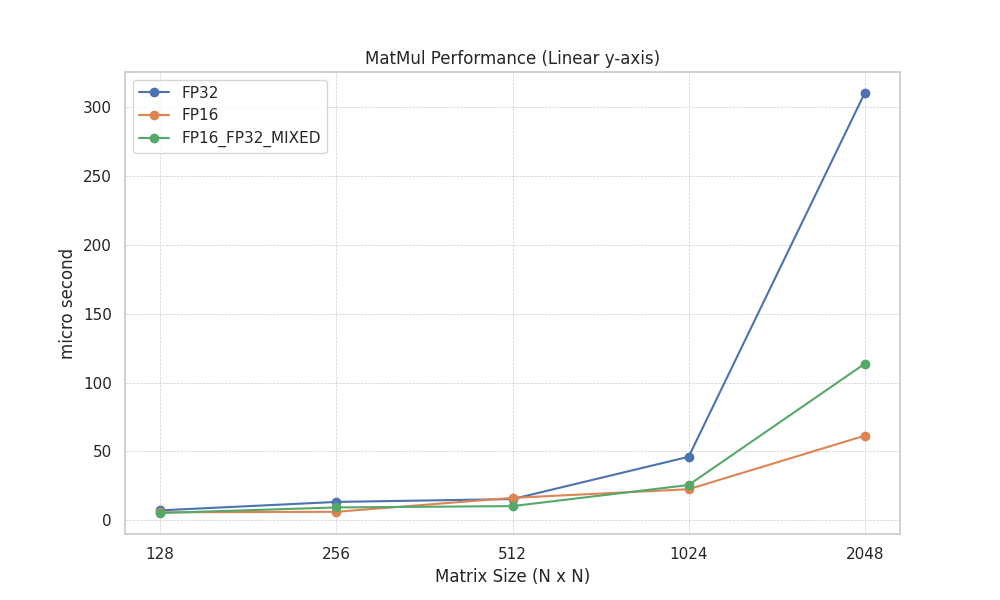
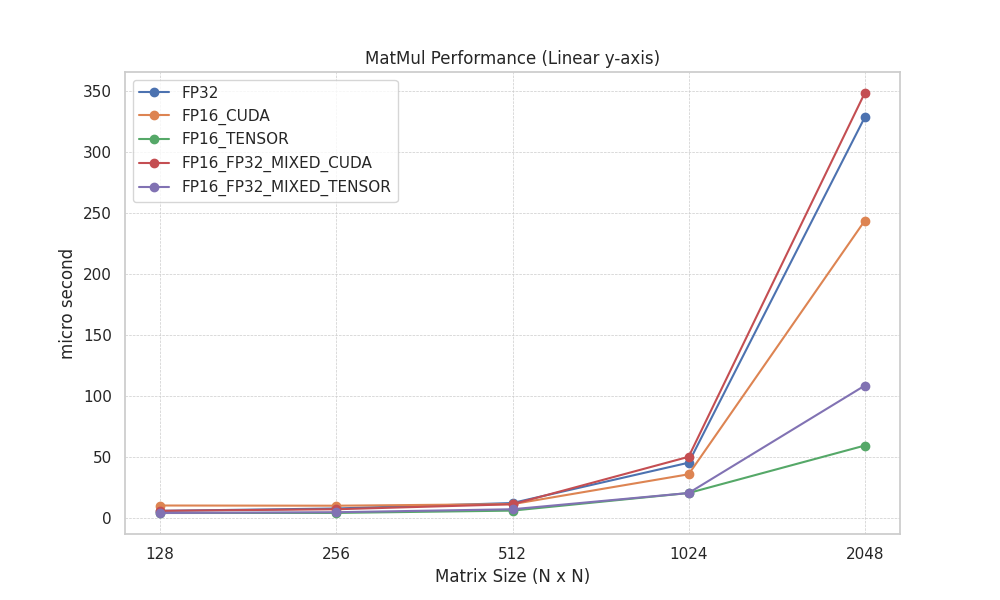
FP16 CUDACOREの追加

diff --git a/main.cpp b/main.cpp
@@ -32,8 +32,10 @@ using namespace std;
 
 enum class DataType {
     FP32,
-    FP16,
-    FP16_FP32_MIXED
+    FP16_CUDA,
+    FP16_TENSOR,
+    FP16_FP32_MIXED_CUDA,
+    FP16_FP32_MIXED_TENSOR,
 };
 
 string cublasGetErrorString(cublasStatus_t status) {
@@ -81,8 +83,18 @@ float matmul_gpu(cublasHandle_t handle, const int size, const float alpha, const
             CUBLAS_COMPUTE_32F,
             CUBLAS_GEMM_DEFAULT
         );
-    }
-    else if (dtype == DataType::FP16) {
+    } else if (dtype == DataType::FP16_CUDA) {
+        CHECK_CUBLAS(cublasGemmEx(handle, CUBLAS_OP_N, CUBLAS_OP_N,
+            size, size, size,
+            &alpha_h,
+            d_A, CUDA_R_16F, size,
+            d_B, CUDA_R_16F, size,
+            &beta_h,
+            d_C, CUDA_R_16F, size,
+            CUBLAS_COMPUTE_16F_PEDANTIC,
+            CUBLAS_GEMM_DEFAULT
+        ));
+    } else if (dtype == DataType::FP16_TENSOR) {
         CHECK_CUBLAS(cublasGemmEx(handle, CUBLAS_OP_N, CUBLAS_OP_N,
             size, size, size,
             &alpha_h,
@@ -93,8 +105,18 @@ float matmul_gpu(cublasHandle_t handle, const int size, const float alpha, const
             CUBLAS_COMPUTE_16F,
             CUBLAS_GEMM_DEFAULT
         ));
-    }
-    else { 
+    } else if (dtype == DataType::FP16_FP32_MIXED_CUDA) { 
+        cublasGemmEx(handle, CUBLAS_OP_N, CUBLAS_OP_N,
+            size, size, size,
+            &alpha,
+            d_A, CUDA_R_16F, size,
+            d_B, CUDA_R_16F, size,
+            &beta,
+            d_C, CUDA_R_32F, size,
+            CUBLAS_COMPUTE_32F_PEDANTIC,
+            CUBLAS_GEMM_DEFAULT
+        );
+    } else { 
         cublasGemmEx(handle, CUBLAS_OP_N, CUBLAS_OP_N,
             size, size, size,
             &alpha,
@@ -142,10 +164,9 @@ int main(int argc, char* argv[]) {
         loop_count = atoi(argv[1]);
     }
 
-    vector<DataType> data_types = {DataType::FP32, DataType::FP16, DataType::FP16_FP32_MIXED};
+    vector<DataType> data_types = {DataType::FP32, DataType::FP16_CUDA, DataType::FP16_TENSOR, DataType::FP16_FP32_MIXED_CUDA, DataType::FP16_FP32_MIXED_TENSOR};
     ofstream outfile("../results.csv");
     outfile << "DataType,MatrixSize,Max_TIME,Min_TIME,Median_TIME\n";
-    ofstream timedata("../time_lists.txt");
     cudaSetDevice(0);
     cublasHandle_t handle;
     CHECK_CUBLAS(cublasCreate(&handle));
@@ -156,12 +177,14 @@ int main(int argc, char* argv[]) {
 
     for (const auto& dtype : data_types) 
     {
-        // auto dtype = DataType::FP16;
+        // auto dtype = DataType::FP16_TENSOR;
         string dtype_str;
         switch(dtype) {
             case DataType::FP32: dtype_str = "FP32"; break;
-            case DataType::FP16: dtype_str = "FP16"; break;
-            case DataType::FP16_FP32_MIXED: dtype_str = "FP16_FP32_MIXED"; break;
+            case DataType::FP16_CUDA: dtype_str = "FP16_CUDA"; break;
+            case DataType::FP16_TENSOR: dtype_str = "FP16_TENSOR"; break;
+            case DataType::FP16_FP32_MIXED_TENSOR: dtype_str = "FP16_FP32_MIXED_TENSOR"; break;
+            case DataType::FP16_FP32_MIXED_CUDA: dtype_str = "FP16_FP32_MIXED_CUDA"; break;
         }
         for (int size = 1 << 7; size <= 1 << 11; size <<= 1) {
             size_t bytes_A, bytes_B, bytes_C;
@@ -169,7 +192,7 @@ int main(int argc, char* argv[]) {
                 bytes_A = bytes_B = bytes_C = size * size * sizeof(float);
             } else {
                 bytes_A = bytes_B = size * size * sizeof(half);
-                bytes_C = size * size * ((dtype == DataType::FP16) ? sizeof(half) : sizeof(float));
+                bytes_C = size * size * ((dtype == DataType::FP16_CUDA || dtype == DataType::FP16_TENSOR) ? sizeof(half) : sizeof(float));
             }
             void* d_A;
             void* d_B;
@@ -206,12 +229,14 @@ int main(int argc, char* argv[]) {
             for(int i = 0; i < 10; ++i) {
                 if (dtype == DataType::FP32) {
                     matmul_gpu<DataType::FP32>(handle, size, alpha, beta, d_A, d_B, d_C);
-                }
-                else if (dtype == DataType::FP16) {
-                    matmul_gpu<DataType::FP16>(handle, size, alpha, beta, d_A, d_B, d_C);
-                }
-                else { 
-                    matmul_gpu<DataType::FP16_FP32_MIXED>(handle, size, alpha, beta, d_A, d_B, d_C);
+                } else if (dtype == DataType::FP16_CUDA) {
+                    matmul_gpu<DataType::FP16_CUDA>(handle, size, alpha, beta, d_A, d_B, d_C);
+                } else if (dtype == DataType::FP16_TENSOR) {
+                    matmul_gpu<DataType::FP16_TENSOR>(handle, size, alpha, beta, d_A, d_B, d_C);
+                } else if (dtype == DataType::FP16_FP32_MIXED_CUDA) { 
+                    matmul_gpu<DataType::FP16_FP32_MIXED_CUDA>(handle, size, alpha, beta, d_A, d_B, d_C);
+                } else { 
+                    matmul_gpu<DataType::FP16_FP32_MIXED_TENSOR>(handle, size, alpha, beta, d_A, d_B, d_C);
                 }
             }
             matmul_cpu(size, alpha, beta, src_A.data(), src_B.data(), src_C.data());
@@ -220,30 +245,33 @@ int main(int argc, char* argv[]) {
                 if (dtype == DataType::FP32) {
                     CHECK_CUDA(cudaMemset(d_C, 0.f, bytes_C));
                     milliseconds = matmul_gpu<DataType::FP32>(handle, size, alpha, beta, d_A, d_B, d_C);
-                }
-                else if (dtype == DataType::FP16) {
-                    CHECK_CUDA(cudaMemset(d_C, half(0.f), bytes_C));
-                    milliseconds = matmul_gpu<DataType::FP16>(handle, size, alpha, beta, d_A, d_B, d_C);
-                }
-                else { 
+                } else if (dtype == DataType::FP16_CUDA) {
                     CHECK_CUDA(cudaMemset(d_C, 0.f, bytes_C));
-                    milliseconds = matmul_gpu<DataType::FP16_FP32_MIXED>(handle, size, alpha, beta, d_A, d_B, d_C);
+                    milliseconds = matmul_gpu<DataType::FP16_CUDA>(handle, size, alpha, beta, d_A, d_B, d_C);
+                } else if (dtype == DataType::FP16_TENSOR) {
+                    CHECK_CUDA(cudaMemset(d_C, 0.f, bytes_C));
+                    milliseconds = matmul_gpu<DataType::FP16_TENSOR>(handle, size, alpha, beta, d_A, d_B, d_C);
+                } else if (dtype == DataType::FP16_FP32_MIXED_CUDA) { 
+                    CHECK_CUDA(cudaMemset(d_C, 0.f, bytes_C));
+                    milliseconds = matmul_gpu<DataType::FP16_FP32_MIXED_CUDA>(handle, size, alpha, beta, d_A, d_B, d_C);
+                } else { 
+                    CHECK_CUDA(cudaMemset(d_C, 0.f, bytes_C));
+                    milliseconds = matmul_gpu<DataType::FP16_FP32_MIXED_TENSOR>(handle, size, alpha, beta, d_A, d_B, d_C);
                 }
-                timedata << i << ": " << milliseconds * 1000 << "micro seconds" << endl;
                 time_list.push_back(milliseconds * 1e3);
             }
             double max_time = *max_element(time_list.begin(), time_list.end());
             double min_time = *min_element(time_list.begin(), time_list.end());
             double median_time = calculate_median(time_list);
             outfile << dtype_str << "," << size << "," << max_time << "," << min_time << "," << median_time << "\n";
-            if (dtype == DataType::FP16) {
+            if (dtype == DataType::FP16_CUDA || dtype == DataType::FP16_TENSOR ) {
                 CHECK_CUDA(cudaMemcpy(dst_C_fp16.data(), d_C, bytes_C, cudaMemcpyDeviceToHost));
             } else {
                 CHECK_CUDA(cudaMemcpy(dst_C.data(), d_C, bytes_C, cudaMemcpyDeviceToHost));
             }
             for(int i = 0; i < size * size; i++) {
                 // 0.1以上の誤差はFP16FP16FP16乱数だと絶対でる。
-                if (dtype == DataType::FP16) {
+                if (dtype == DataType::FP16_CUDA || dtype == DataType::FP16_TENSOR) {
                     if (abs(src_C[i] - __half2float(dst_C_fp16[i])) > 1) {
                         cout << src_C[i] << ' ' << __half2float(dst_C_fp16[i]) << ' ' << abs(src_C[i] - __half2float(dst_C_fp16[i])) << endl;
                     }
